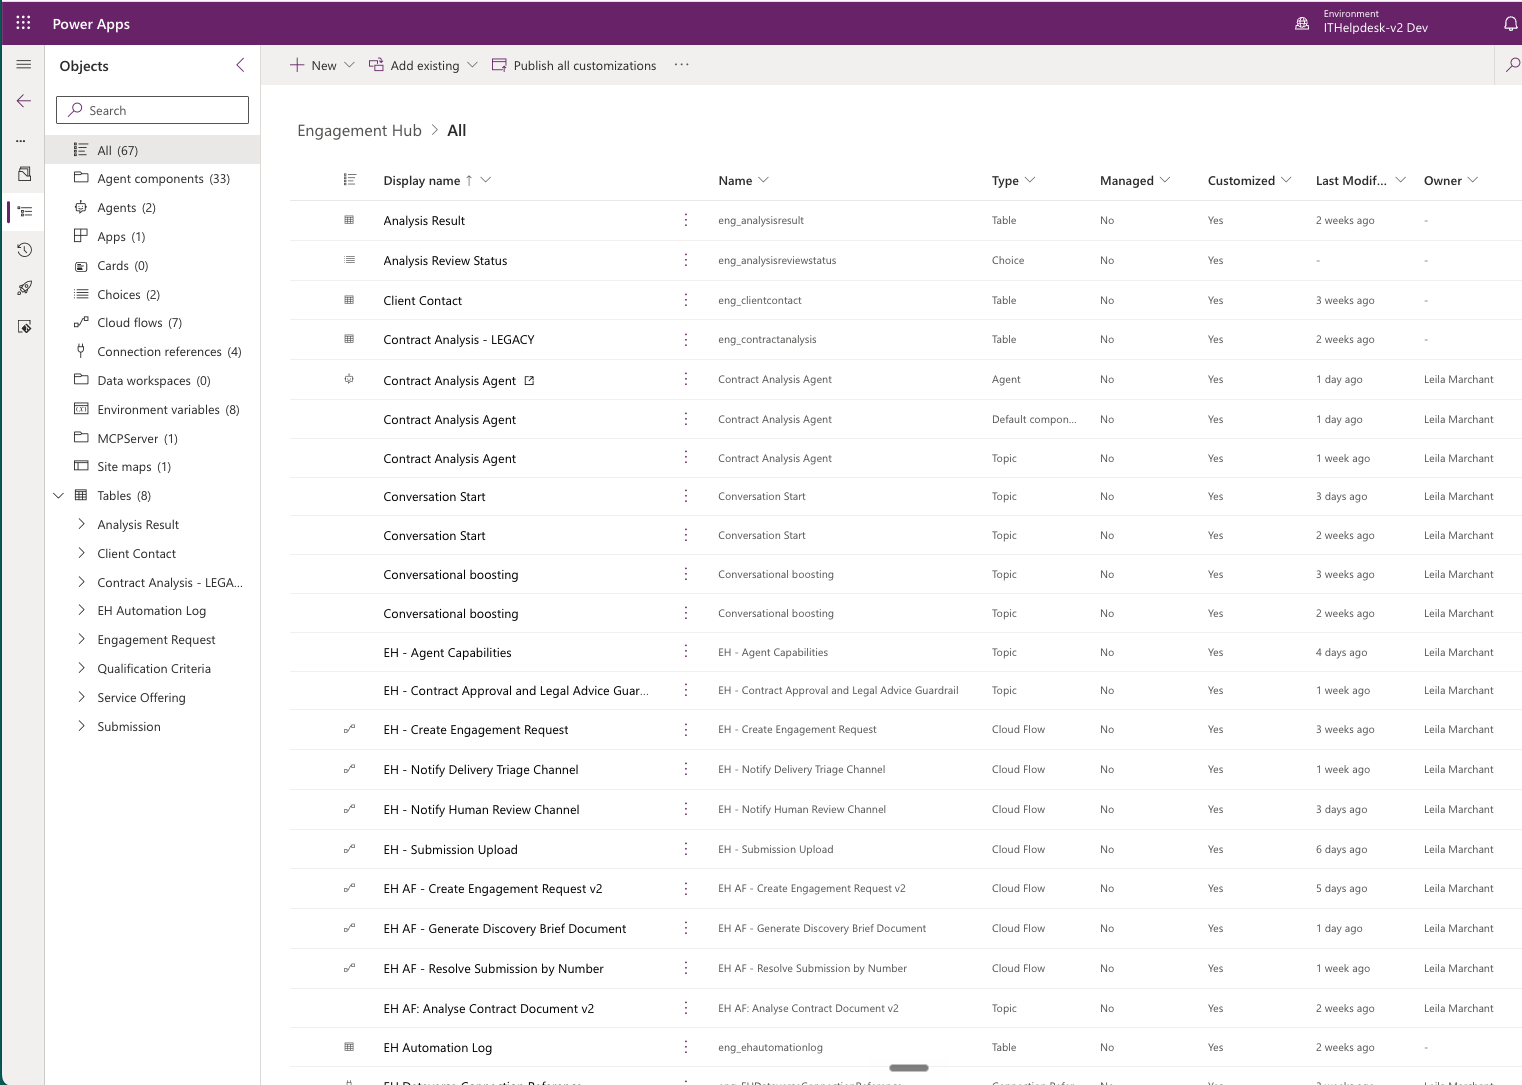
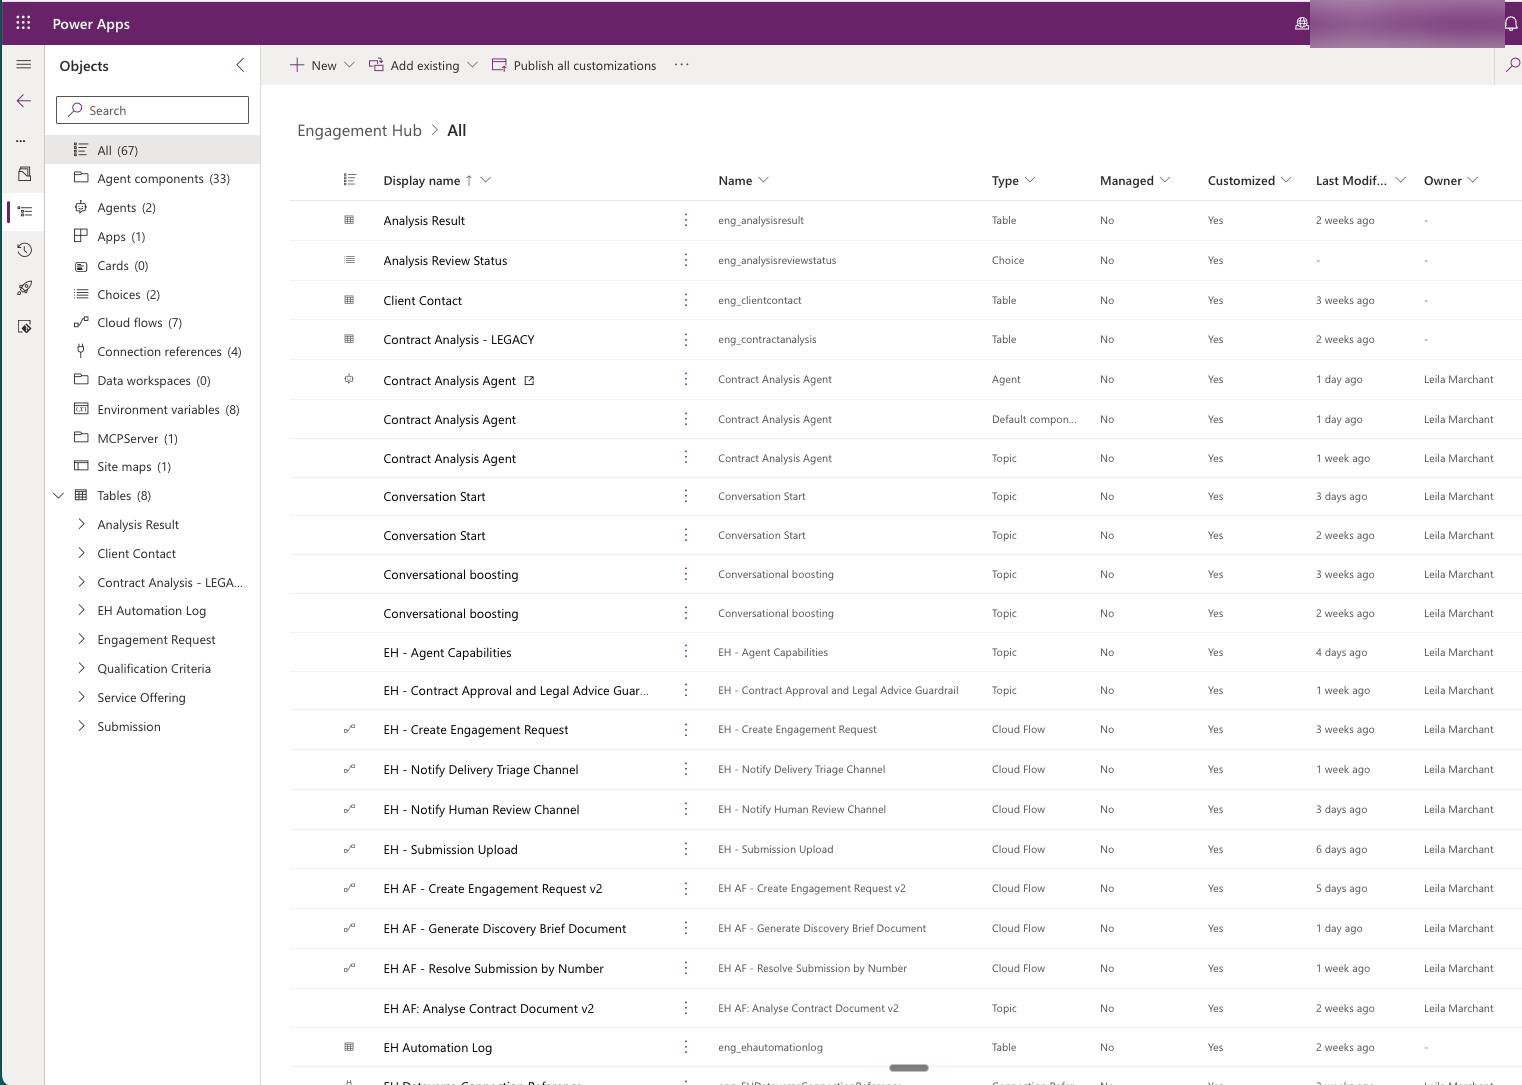
Clean up portfolio docs and redact screenshots

Changed region(s): [[0.8338, 0.0, 0.9882, 0.0608]]

diff --git a/README.md b/README.md
@@ -15,7 +15,7 @@ A multi-agent Microsoft **Copilot Studio** and **Power Platform** system that tu
  
 ---
  
-> **👋 Reviewing this repo?** The fastest way to understand the project is the **[4-minute demo video](https://youtu.be/Tzn6pMMoEAw)**, then the **[full case study](https://leilamarchant.co.uk/case-study-engagement-hub/)** for architecture detail and screenshots.
+> **👋 Reviewing this repo?** The fastest way to understand the project is the **[demo video, about 4 minutes](https://youtu.be/Tzn6pMMoEAw)**, then the **[full case study](https://leilamarchant.co.uk/case-study-engagement-hub/)** for architecture detail and screenshots.
  
 ---
  
@@ -39,7 +39,7 @@ A multi-agent Microsoft **Copilot Studio** and **Power Platform** system that tu
  
 | Resource | Link |
 |---|---|
-| 🎬 Demo video | [YouTube walkthrough (3 min)](https://youtu.be/Tzn6pMMoEAw) |
+| 🎬 Demo video | [YouTube walkthrough (about 4 minutes)](https://youtu.be/Tzn6pMMoEAw) |
 | 🌐 Full case study | [leilamarchant.co.uk/case-study-engagement-hub](https://leilamarchant.co.uk/case-study-engagement-hub/) |
 | 📄 Case study PDF | [docs/Engagement_Hub_Case_Study.pdf](docs/Engagement_Hub_Case_Study.pdf) |
 | 📋 ALM release checklist | [docs/Engagement_Hub_ALM_Release_Checklist.pdf](docs/Engagement_Hub_ALM_Release_Checklist.pdf) |
@@ -79,7 +79,8 @@ Engagement Hub replaces that process with a governed, multi-agent intake and del
  
 <details>
 <summary>Text version of the architecture</summary>
-```
+
+```text
 ┌──────────────────────────────────────────────────────────────────────────────┐
 │                         Engagement Hub Agent                                 │
 │                         Parent orchestration agent                           │
@@ -88,7 +89,7 @@ Engagement Hub replaces that process with a governed, multi-agent intake and del
                 │                        │                        │
                 ▼                        ▼                        ▼
 ┌──────────────────────────┐  ┌──────────────────────────┐  ┌──────────────────────────┐
-│  Contract Analysis Agent  │  │ Submission Intake Agent   │  │   Delivery Prep Agent     │
+│  Contract Analysis Agent  │  │ Submission Intake Child   │  │   Delivery Prep Child     │
 │  Connected specialist     │  │ Child agent               │  │   Child agent             │
 │  Document analysis        │  │ Intake preparation        │  │   Discovery brief         │
 │  Risks · obligations      │  │ Missing information       │  │   Word handoff document   │
@@ -121,13 +122,12 @@ Engagement Hub replaces that process with a governed, multi-agent intake and del
 │  Model-driven app · Teams adaptive cards · SharePoint · Word template output  │
 └──────────────────────────────────────────────────────────────────────────────┘
 ```
-
-**Scale:** 4 Copilot Studio agents total: 1 parent orchestration agent, 1 connected specialist agent and 2 child agents · 7 core Dataverse tables · 8+ Power Automate flows
-
-```
  
 </details>
-**Scale:** 1 parent orchestration agent · 1 connected specialist agent · 2 child agents · 7 core Dataverse tables · 8+ Power Automate flows
+
+**Scale:** 1 parent orchestration agent · 1 connected specialist agent · 2 child agents · 7 core Dataverse tables · 8+ Power Automate flows in the wider solution, with selected core flows documented in this repo.
+
+The demo video focuses on the analysis-to-delivery path: document analysis, Engagement Request creation, delivery handoff, Word document generation, Teams notification and audit logging. It does not show every wider architecture capability or every agent path.
  
 ---
  
@@ -140,8 +140,8 @@ The build uses a deliberate mix of patterns rather than agents everywhere:
 | Pattern | Used when | In this build |
 |---|---|---|
 | Connected agent | Strong, self-contained domain boundary | Contract Analysis Agent |
-| Child agent | Focused sub-task within the same business process | Delivery Prep Child Agent |
-| Controlled topic | Behaviour must be deterministic — no generative improvisation | Engagement Request Confirmation |
+| Child agent | Focused sub-task within the same business process | Submission Intake Child Agent; Delivery Prep Child Agent |
+| Controlled topic | Behaviour must be deterministic — no generative improvisation | Engagement Request Confirmation, which is a controlled topic rather than a child agent |
 | Agent flow | Records must be created, retrieved or updated reliably | Create / Resolve / Analyse flows |
 | Backend cloud flow | Automation should be event-driven, no user present | Teams notification flows |
  
@@ -216,7 +216,7 @@ engagement-hub-agent/
 1. Create a Power Platform environment with Dataverse enabled.
 2. Create the 7 Dataverse tables (Client Contacts, Submissions, Service Offerings, Qualification Criteria, Analysis Results, Engagement Requests, Automation Logs).
 3. Build the model-driven app for operational review.
-4. Create the Copilot Studio parent agent and specialist agents.
+4. Create the Copilot Studio parent agent, connected specialist agent and child agents.
 5. Add controlled topics for submission analysis, engagement confirmation, delivery handoff and legal/commercial guardrails.
 6. Create the Power Automate flows and connect them to the agents as tools.
 7. Configure SharePoint storage and a Word template with content controls.
@@ -227,7 +227,7 @@ engagement-hub-agent/
  
 ## Lessons learned
  
-Five things that changed how I think about building production-grade agents:
+Five things that changed how I think about building governed business agents:
  
 1. **Pattern selection matters more than agent count.** The question is never "how many agents?" — it's "where does generative reasoning add value, and where does it add risk?"
 2. **A failed lookup is a business outcome, not a technical exception.** Agent flows should never use `Terminate`; every path needs a controlled, logged response.

diff --git a/architecture/README.md b/architecture/README.md
@@ -6,10 +6,13 @@ Engagement Hub uses a multi-agent Copilot Studio architecture:
 
 - Engagement Hub Agent as the parent orchestration agent
 - Contract Analysis Agent as a connected specialist agent
+- Submission Intake Child Agent for intake preparation and missing-information support
 - Delivery Prep Child Agent for delivery handoff and discovery preparation
 - Power Automate flows for deterministic Dataverse, Word, SharePoint and Teams actions
 - Dataverse as the system of record
 - Teams for human-review notification
 - SharePoint and Word for generated discovery brief documents
+
+The public architecture is: 1 parent orchestration agent · 1 connected specialist agent · 2 child agents.
 
 The architecture demonstrates multi-agent orchestration, human-in-the-loop governance, duplicate-safe record creation, document generation and audit logging.

diff --git a/flows/README.md b/flows/README.md
@@ -1,6 +1,8 @@
 # Power Automate Flows
 
-This folder documents the main Power Automate flows used by Engagement Hub. This is a Power Platform / Copilot Studio project, so the repository contains sanitised implementation summaries rather than raw exported environment files.
+This folder documents selected core Power Automate flows used by Engagement Hub. The wider solution uses 8+ flows; this repository focuses on the flows that best explain the public portfolio architecture and demo path.
+
+This is a Power Platform / Copilot Studio project, so the repository contains sanitised implementation summaries rather than raw exported environment files.
 
 ## EH AF - Analyse Contract Document v2
 
